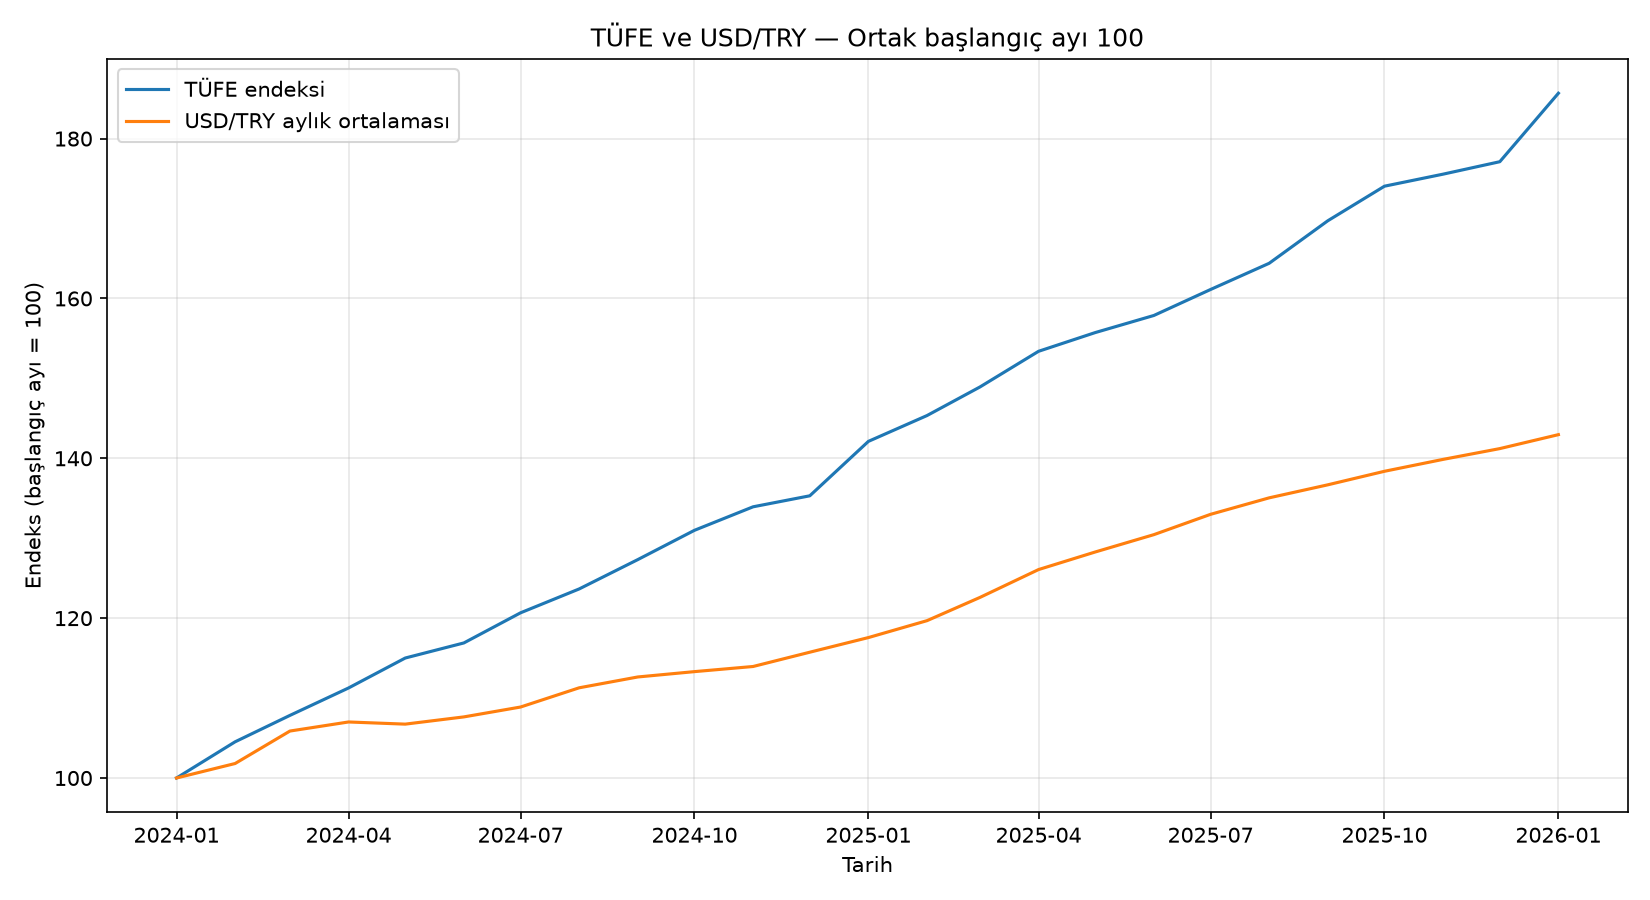
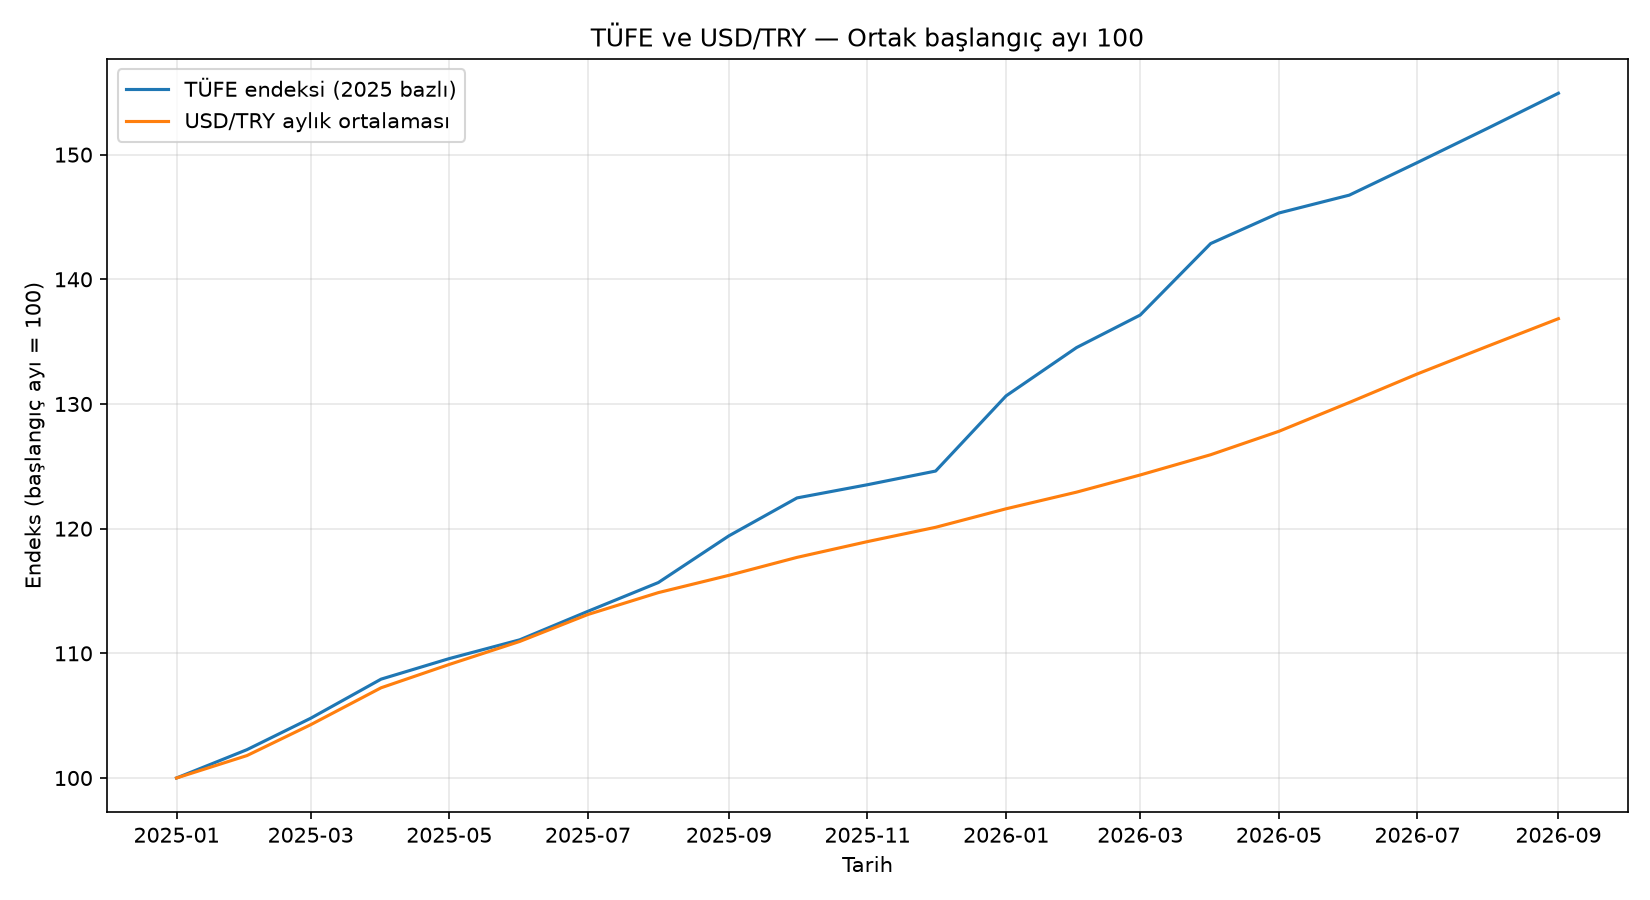
Use rebased CPI series in macro comparison

diff --git a/fetch_tufe_2025base.py b/fetch_tufe_2025base.py
@@ -1,0 +1,51 @@
+from pathlib import Path
+import os
+
+import pandas as pd
+import requests
+from dotenv import load_dotenv
+
+
+PROJECT_DIR = Path(__file__).resolve().parent
+DATA_DIR = PROJECT_DIR / "data"
+
+load_dotenv(PROJECT_DIR / ".env")
+api_key = os.getenv("EVDS_API_KEY")
+
+if not api_key:
+    raise RuntimeError(".env içinde EVDS_API_KEY bulunamadı.")
+
+url = (
+    "https://evds3.tcmb.gov.tr/igmevdsms-dis/"
+    "series=TP.TUKFIY2025.GENEL&startDate=01-01-2025"
+    "&endDate=31-12-2026&type=json"
+)
+
+response = requests.get(url, headers={"key": api_key}, timeout=30)
+response.raise_for_status()
+
+items = response.json().get("items", [])
+if not items:
+    raise RuntimeError("EVDS yanıtında veri bulunamadı.")
+
+df = pd.DataFrame(items)
+value_column = "TP_TUKFIY2025_GENEL"
+
+if "Tarih" not in df.columns or value_column not in df.columns:
+    raise RuntimeError(f"EVDS yanıtındaki sütunlar beklenenden farklı: {list(df.columns)}")
+
+df = df.rename(columns={"Tarih": "date", value_column: "cpi"})
+df = df[["date", "cpi"]].copy()
+df["date"] = pd.to_datetime(df["date"], format="mixed")
+df["cpi"] = pd.to_numeric(df["cpi"], errors="coerce")
+df = df.dropna().sort_values("date")
+df["annual_inflation_pct"] = df["cpi"].pct_change(12) * 100
+
+DATA_DIR.mkdir(exist_ok=True)
+csv_path = DATA_DIR / "tufe_2025base.csv"
+df.to_csv(csv_path, index=False, encoding="utf-8-sig")
+
+print(f"İndirilen gözlem: {len(df)}")
+print(f"İlk tarih: {df['date'].min():%Y-%m}")
+print(f"Son tarih: {df['date'].max():%Y-%m}")
+print(f"CSV: {csv_path}")

diff --git a/analyze_macro.py b/analyze_macro.py
@@ -7,7 +7,7 @@ import pandas as pd
 PROJECT_DIR = Path(__file__).resolve().parent
 DATA_DIR = PROJECT_DIR / "data"
 
-cpi = pd.read_csv(DATA_DIR / "tufe.csv", parse_dates=["date"])
+cpi = pd.read_csv(DATA_DIR / "tufe_2025base.csv", parse_dates=["date"])
 usd = pd.read_csv(DATA_DIR / "usdtry.csv", parse_dates=["date"])
 
 cpi["month"] = cpi["date"].dt.to_period("M")
@@ -55,7 +55,7 @@ plt.figure(figsize=(11, 6))
 plt.plot(
     comparison["month"],
     comparison["cpi_index_100"],
-    label="TÜFE endeksi",
+    label="TÜFE endeksi (2025 bazlı)",
 )
 plt.plot(
     comparison["month"],
@@ -71,5 +71,7 @@ plt.tight_layout()
 plt.savefig(chart_path, dpi=150)
 
 print(f"Ortak aylık gözlem: {len(comparison)}")
+print(f"İlk ay: {comparison['month'].min():%Y-%m}")
+print(f"Son ay: {comparison['month'].max():%Y-%m}")
 print(f"CSV: {csv_path}")
 print(f"Grafik: {chart_path}")

diff --git a/run_pipeline.py b/run_pipeline.py
@@ -6,10 +6,10 @@ import sys
 PROJECT_DIR = Path(__file__).resolve().parent
 SCRIPTS = [
     "fetch_evds.py",
+    "fetch_tufe_2025base.py",
     "fetch_usdtry.py",
     "analyze_macro.py",
 ]
-
 for script_name in SCRIPTS:
     script_path = PROJECT_DIR / script_name
     print(f"\n--- {script_name} çalıştırılıyor ---")
@@ -20,13 +20,3 @@ for script_name in SCRIPTS:
     )
 
 print("\nEconPilot veri hattı tamamlandı.")
-## Tüm veri hattını tek komutla çalıştırma
-
-`run_pipeline.py`, TÜFE ve USD/TRY verilerini indirir, ardından aylık karşılaştırmayı üretir.
-
-Çalıştırma: `.\.venv\Scripts\python.exe .\run_pipeline.py`
-## Tüm veri hattını tek komutla çalıştırma
-
-`run_pipeline.py`, TÜFE ve USD/TRY verilerini indirir, ardından aylık karşılaştırmayı üretir.
-
-Çalıştırma: `.\.venv\Scripts\python.exe .\run_pipeline.py`
